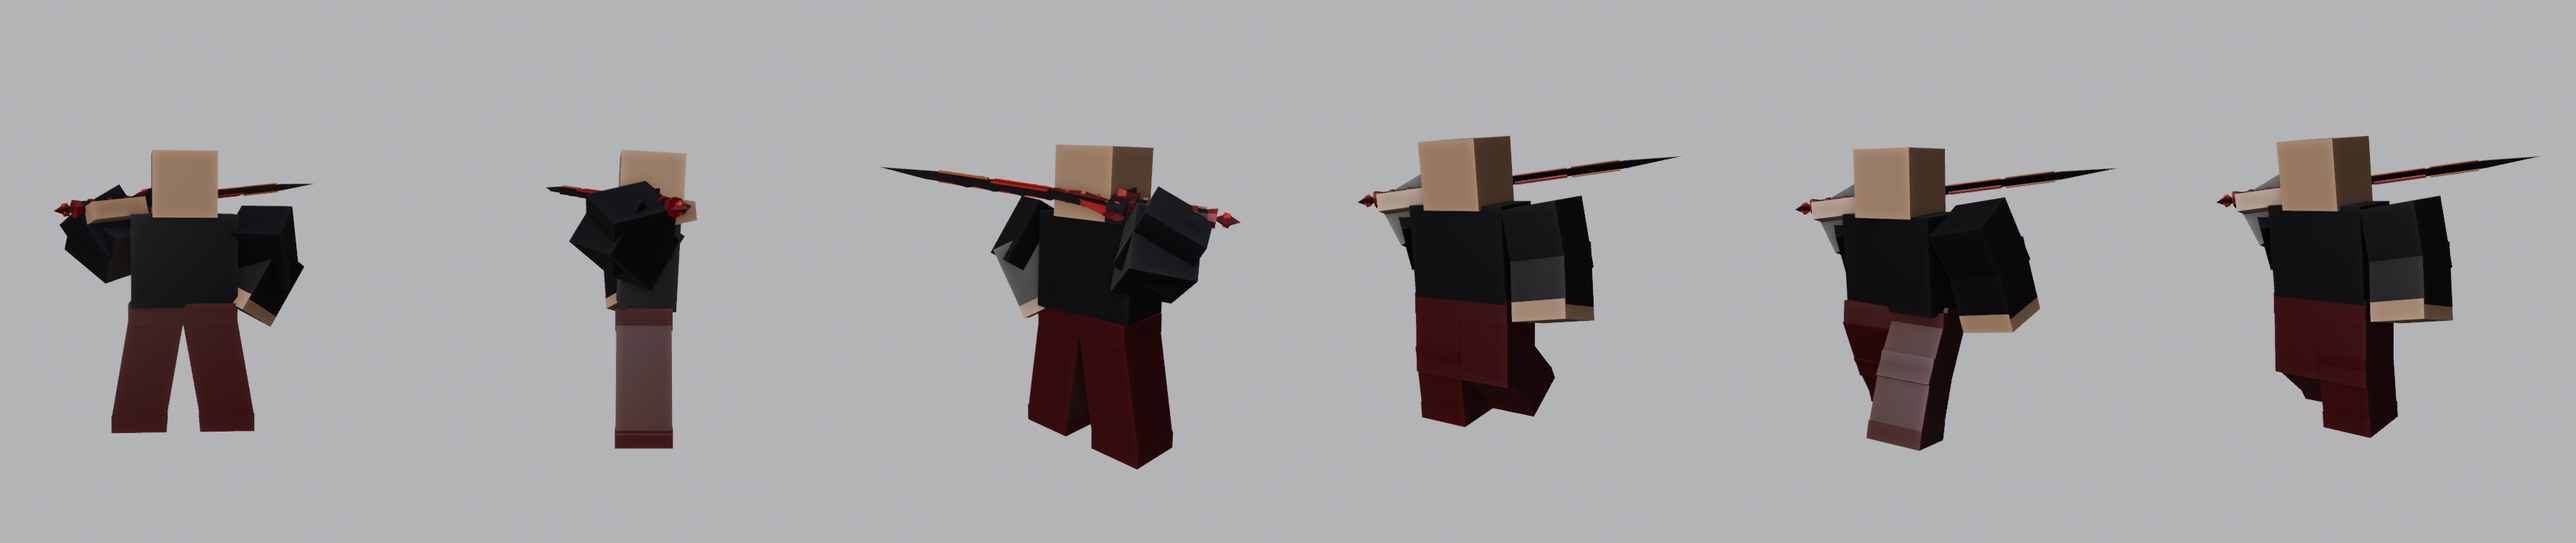
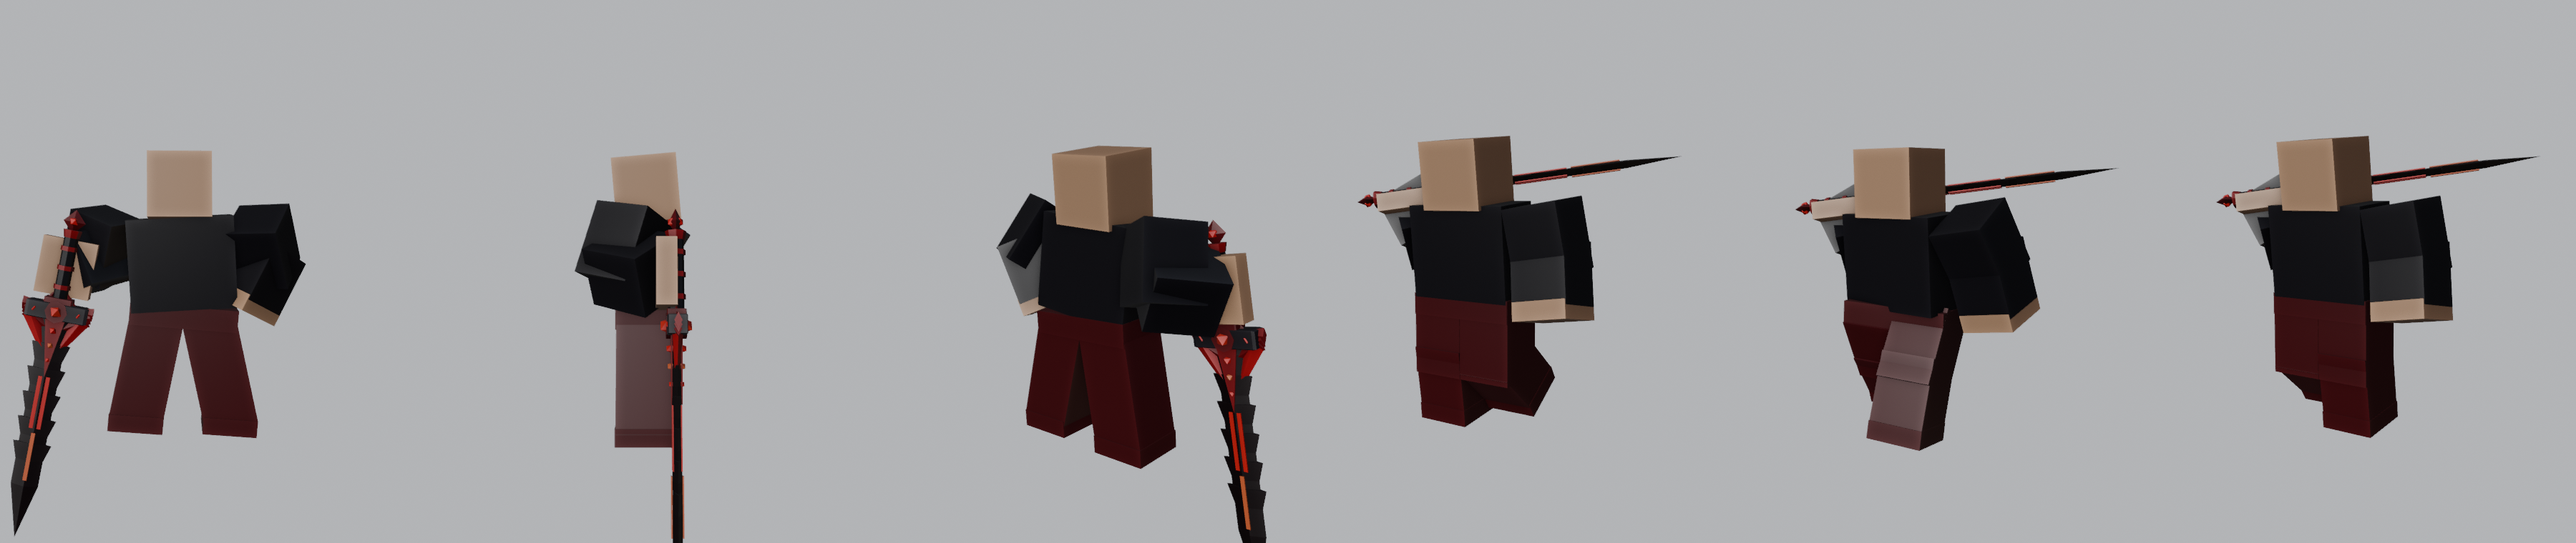
GAME-35: SwordIdle plants the giant sword beside the right foot (right hand on the grip via IK, left hand on hip)

diff --git a/scripts/18_r15_anims.py b/scripts/18_r15_anims.py
@@ -1,6 +1,6 @@
 # 18_r15_anims.py: player sword animations on the R15 rig from 17_r15_rig.py (GAME-35).
-#   SwordIdle  (loop, 3 s): sword across the shoulders, left hand on the hip, wide stance, breathing, weight shift,
-#              looks around.
+#   SwordIdle  (loop, 3 s): giant sword planted beside the right foot, right hand resting on the grip at shoulder
+#              height, left hand on the hip, chin down; breathes, shifts weight and glances aside, the sword stays put.
 #   SwordWalk  (loop, 1.0 s at walk speed 16): swaggering walk, sword stays across the shoulders, left arm swings,
 #              hips and shoulders counter-twist, slight lean back, body bobs on each step.
 # Run headless (opens blender/r15_rig.blend, adds the actions, saves it back and renders previews):
@@ -9,6 +9,7 @@
 # Poses are written as rotations about the rest-pose WORLD axes at each joint (Blender: +X = the character's left,
 # -Y = forward, +Z = up), chained parent -> child, then converted to bone channels. So "Rx(-60) on RightUpperArm" means
 # "swing the right arm 60 degrees forward", whatever the bone's roll.
+import itertools
 import math
 import os
 
@@ -23,25 +24,34 @@ CHAIN = ["HumanoidRootPart", "LowerTorso", "UpperTorso", "Head", "RightUpperArm"
 
 # The owner's pick (pose 3 of the reference sheet): sword laid across the shoulders behind the neck, hilt in the right
 # hand at the right shoulder, blade out past the left shoulder. Angles found by a numeric search for grip at
-# (-1.35, 0.05, 4.2) with the blade along (1, 0.5, 0.12); HIP_HAND puts the left hand on the hip (idle only).
+# (-1.35, 0.05, 4.2) with the blade along (1, 0.5, 0.12).
 CARRY = {"RightUpperArm": (19.9, 239.6, 115.8), "RightLowerArm": (-129.0, 0, 110.9), "RightHand": (-23.6, 87.0, -90.6)}
+# Idle: the giant sword stands point down beside the right foot, grip at shoulder height under the right hand (the
+# blade is longer than the character is tall), left hand on the hip. The top leans in, the flat faces forward.
+PLANTED = Matrix.Translation((-2.1, -0.5, 3.0)) @ Matrix.Rotation(0.2, 4, "Y") @ Matrix.Rotation(math.pi, 4, "X")
 HIP_HAND = {"LeftUpperArm": (29.5, 0.3, -27.0), "LeftLowerArm": (-53.8, 0, -29.8)}
 
-
-def pose_matrices(rig, rot, lift=0.0):
-    """rot: bone -> (rx, ry, rz) degrees about world axes at the bone's rest head. Returns bone -> basis matrix."""
-    bones = rig.data.bones
+def world_deltas(rig, rot, lift=0.0):
+    """rot: bone -> (rx, ry, rz) degrees about world axes at the bone's rest head. Returns bone -> pose @ rest^-1."""
     world = {}
-    basis = {}
     for name in CHAIN:
-        b = bones[name]
+        b = rig.data.bones[name]
         p = b.head_local
         r = Euler([math.radians(a) for a in rot.get(name, (0, 0, 0))], "XYZ").to_matrix().to_4x4()
         local = Matrix.Translation(p) @ r @ Matrix.Translation(-p)
         if name == "LowerTorso":
             local = Matrix.Translation((0, 0, lift)) @ local
-        parent = world.get(b.parent.name) if b.parent else Matrix.Identity(4)
-        world[name] = parent @ local
+        world[name] = (world[b.parent.name] if b.parent else Matrix.Identity(4)) @ local
+    return world
+
+
+def pose_matrices(rig, rot, lift=0.0):
+    """Same rot as world_deltas. Returns bone -> basis matrix."""
+    bones = rig.data.bones
+    world = world_deltas(rig, rot, lift)
+    basis = {}
+    for name in CHAIN:
+        b = bones[name]
         pose = world[name] @ b.matrix_local
         if b.parent:
             parent_pose = world[b.parent.name] @ b.parent.matrix_local
@@ -74,27 +84,83 @@ def new_action(rig, name, frames):
     return act
 
 
+def ease(x):
+    x = min(1.0, max(0.0, x))
+    return x * x * (3 - 2 * x)
+
+
+def solve_grip(rig, rot, lift, sword_rest, guess):
+    """Right arm angles (degrees) that put the sword (rest matrix sword_rest, riding on RightHand) at PLANTED: grip on
+    the spot, blade along PLANTED's, flat facing forward if the arm allows. Levenberg-Marquardt, weakly pulled toward
+    guess. Returns (angles, grip position error)."""
+    import numpy as np
+    names = ["RightUpperArm", "RightLowerArm", "RightHand"]
+    p0 = np.array([a for n in names for a in guess[n]], float)
+
+    def resid(p):
+        r = dict(rot)
+        r.update({n: tuple(p[3 * i:3 * i + 3]) for i, n in enumerate(names)})
+        s = world_deltas(rig, r, lift)["RightHand"] @ sword_rest
+        m = s.to_3x3()
+        out = list(s.translation - PLANTED.translation) + list(m.col[2] - PLANTED.to_3x3().col[2]) + [0.3 * m.col[0].y]
+        return np.concatenate([out, 1e-5 * (p - p0)])
+
+    p, lam = p0.copy(), 1e-3
+    r0 = resid(p)
+    for _ in range(80):  # shrink the damping on a good step, grow it on a bad one
+        jac = np.array([(resid(p + d) - r0) / 0.1 for d in np.eye(9) * 0.1]).T
+        jtj = jac.T @ jac
+        q = p - np.linalg.solve(jtj + lam * np.diag(np.diag(jtj) + 1e-9), jac.T @ r0)
+        rq = resid(q)
+        if rq @ rq < r0 @ r0:
+            p, r0, lam = q, rq, lam * 0.3
+        else:
+            lam *= 10
+    return {n: tuple(p[3 * i:3 * i + 3]) for i, n in enumerate(names)}, float(np.abs(r0[:3]).max())
+
+
 def idle(rig):
     n = 3 * FPS
+    sword = bpy.data.objects["Sword"]
+    rig.animation_data_create()
+    rig.animation_data.action = None
+    for pb in rig.pose.bones:
+        pb.matrix_basis = Matrix.Identity(4)
+    bpy.context.view_layer.update()
+    sword_rest = rig.matrix_world.inverted() @ sword.matrix_world
     new_action(rig, "EXP_SwordIdle", n)
+    arms, worst = None, 0.0
     for f in range(0, n + 1, 2):
         ph = 2 * math.pi * f / n
         w = math.sin(ph)  # weight shift, once per loop
         b = math.sin(2 * ph)  # breathing, twice per loop
-        rot = dict(CARRY)
-        rot.update(HIP_HAND)
-        rot["RightUpperArm"] = (19.9 + 4 * b, 239.6, 115.8)  # sword bobs on the shoulder
-        rot["LeftUpperArm"] = (29.5, 0.3 + 4 * b, -27.0)  # hip elbow flares with the breath
+        look = ease((f - 15) / 12) - ease((f - 60) / 15)  # glance aside, hold, back
+        hip = 5 + 2 * w  # hip cocked away from the sword
+        rot = dict(HIP_HAND)
+        rot["LeftUpperArm"] = (29.5, 0.3 + 3 * b, -27.0)  # hip elbow flares with the breath
         rot.update({
-            "LowerTorso": (0, 4 * w, 0),  # weight shift side to side
-            "UpperTorso": (3 + 4 * b, -2.5 * w, 4 * math.cos(ph)),  # breathing, lean back, slight twist
-            "Head": (-3 * b, 2 * w, 12 * w),  # looks around
-            "LeftUpperLeg": (0, -10 - 4 * w, 0),  # wide stance
-            "RightUpperLeg": (0, 10 - 4 * w, 0),
-            "LeftFoot": (0, 10 + 4 * w, 0),
-            "RightFoot": (0, -10 + 4 * w, 0),
+            "LowerTorso": (0, hip, 0),
+            "UpperTorso": (3 + 2.5 * b, -1.6 * hip, -6 * look),  # leans on the sword, chest rises with the breath
+            "Head": (-8 - 1.5 * b, 3, -20 * look),  # chin down, staring ahead, glances aside
+            "RightUpperLeg": (0, 12 - hip, 0),  # wide stance
+            "LeftUpperLeg": (0, -12 - hip, 0),
+            "RightFoot": (0, -12 + hip, 0),
+            "LeftFoot": (0, 12 + hip, 0),
         })
-        key(rig, f, rot, lift=-0.06 - 0.04 * (1 - math.cos(2 * ph)) / 2)  # wide stance sits a little lower
+        lift = -0.12 + 0.02 * b
+        if arms is None:  # first frame: try several starts, keep the least twisted arm that reaches
+            tries = []
+            for ux, uz, lx in itertools.product((-90, -45, 0), (-60, 0, 40), (-90, -30)):
+                guess = {"RightUpperArm": (ux, 0, uz), "RightLowerArm": (lx, 0, 0), "RightHand": (0, 0, 0)}
+                a, err = solve_grip(rig, rot, lift, sword_rest, guess)
+                bend = sum(Euler([math.radians(x) for x in v]).to_quaternion().angle for v in a.values())
+                tries.append((err > 0.01, bend, a))
+            arms = min(tries, key=lambda t: t[:2])[2]
+        arms, err = solve_grip(rig, rot, lift, sword_rest, arms)
+        worst = max(worst, err)
+        rot.update(arms)
+        key(rig, f, rot, lift)
+    print("SwordIdle: sword drifts at most %.3f studs from the planted spot" % worst)
 
 
 def walk(rig):
